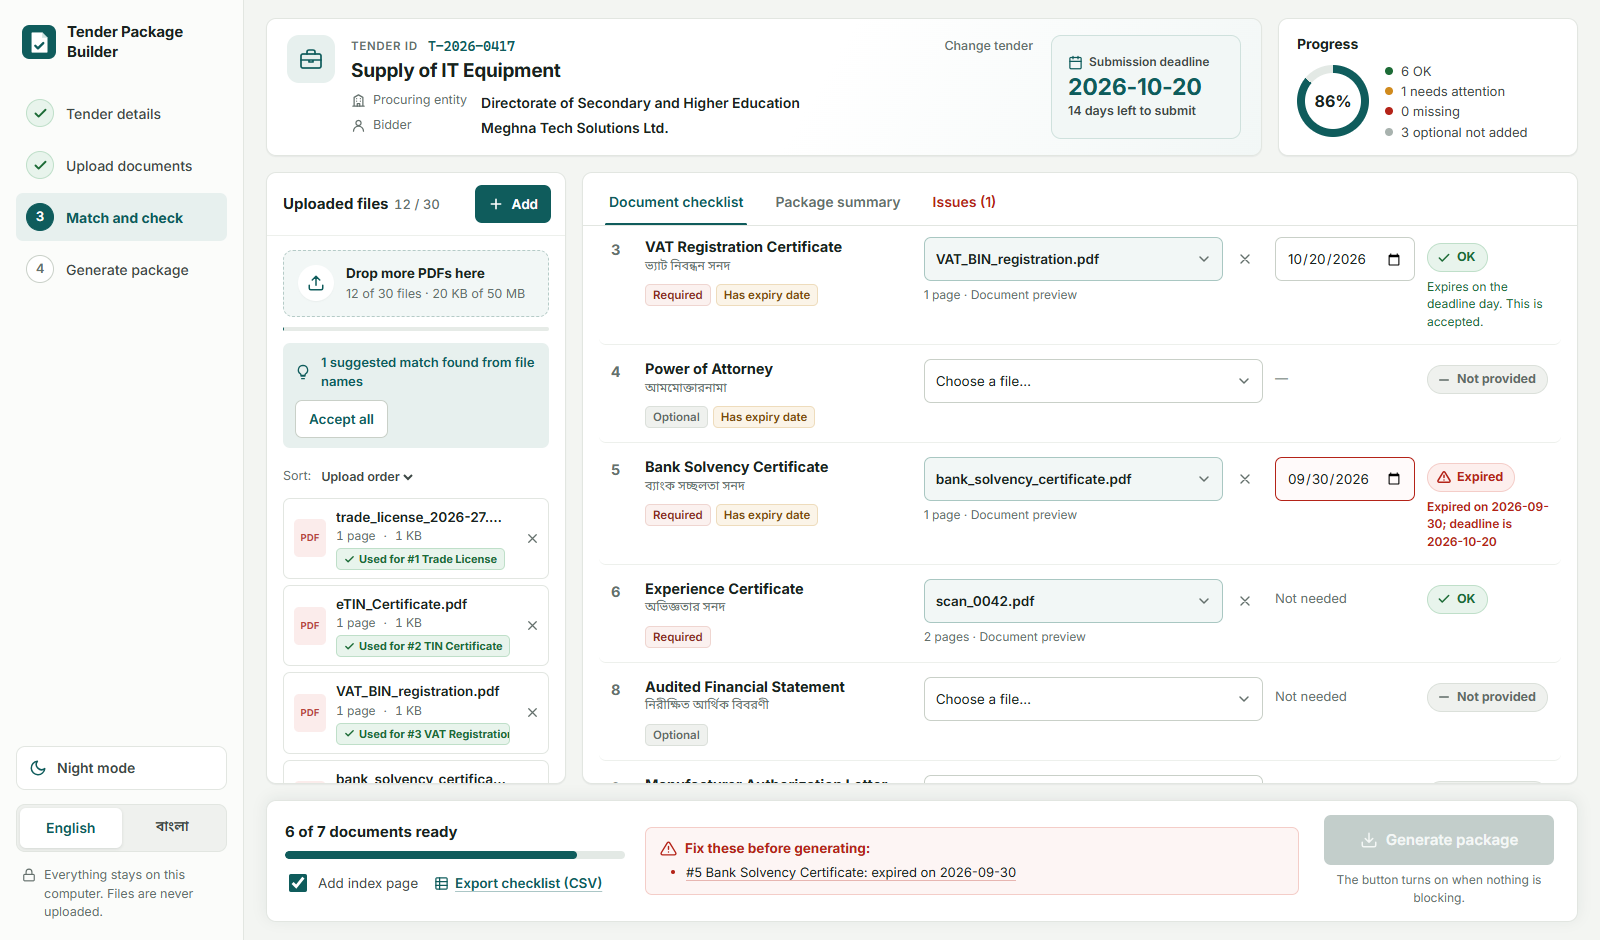
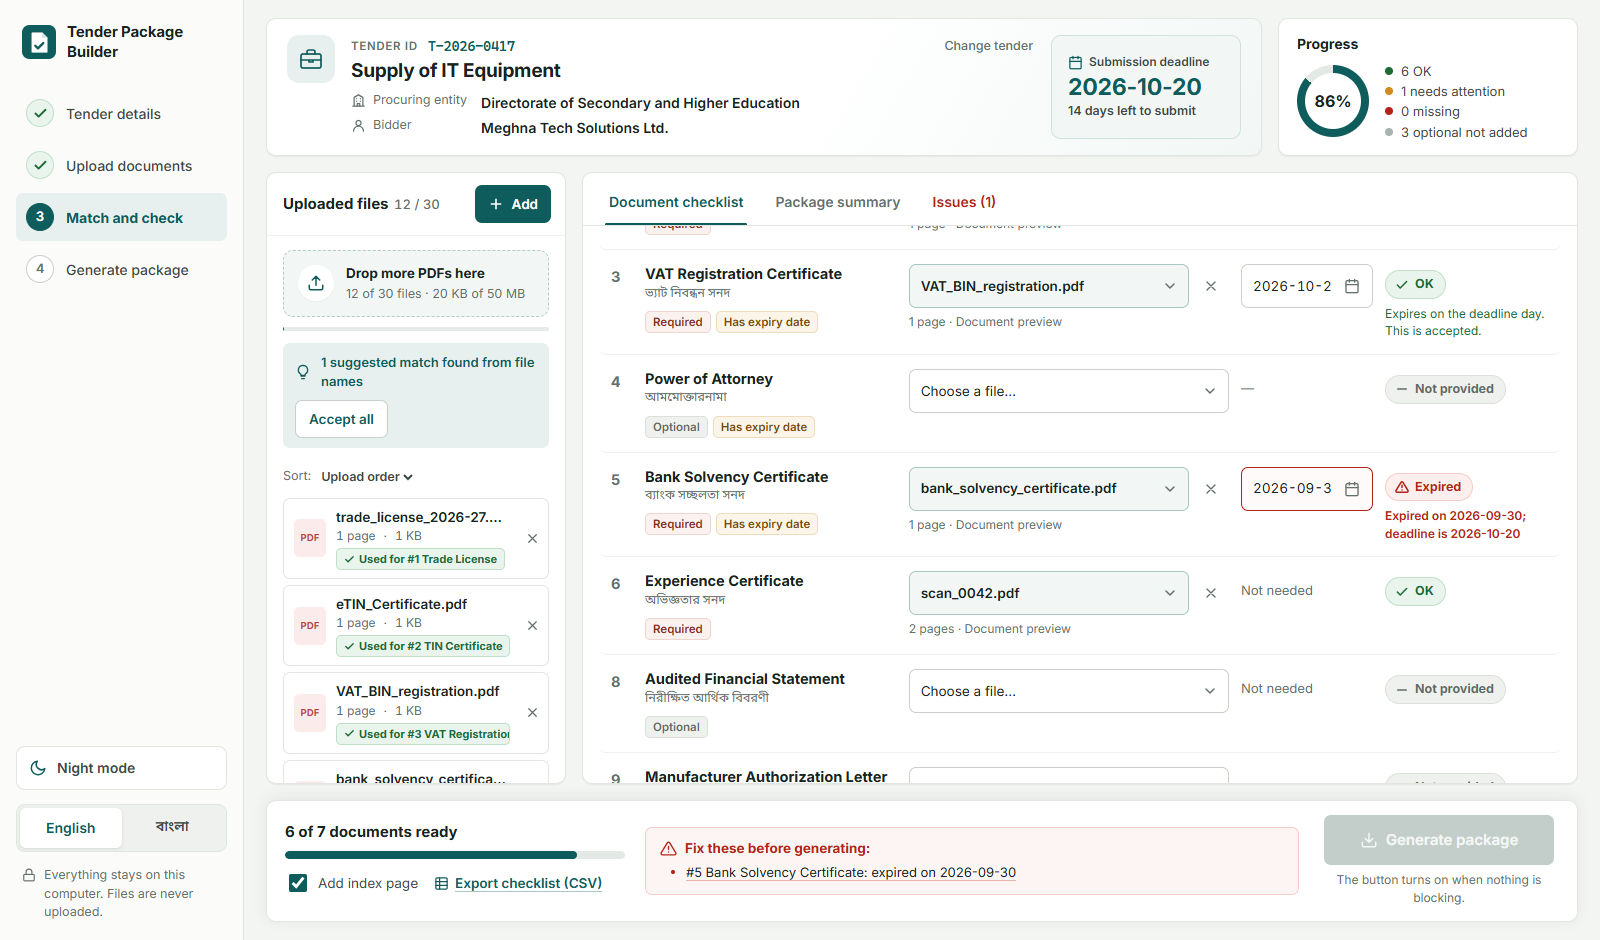
Fix expiry date field showing locale mm/dd/yyyy (now YYYY-MM-DD text field with auto dashes, validation and calendar button) and status chip overflowing its column | Prompt: "do you see the issue here? Fix this and deploy asap"

diff --git a/src/components/DateField.tsx b/src/components/DateField.tsx
@@ -1,0 +1,102 @@
+import { useEffect, useRef, useState } from 'react';
+import { isIsoDate } from '../lib/dates';
+import { useI18n } from '../i18nContext';
+import { IconCalendar } from './Icons';
+
+interface Props {
+  id: string;
+  value: string;
+  className: string;
+  describedBy?: string;
+  invalid?: boolean;
+  onChange: (date: string) => void;
+}
+
+function autoDash(raw: string): string {
+  const d = raw.replace(/\D/g, '').slice(0, 8);
+  if (d.length <= 4) return d;
+  if (d.length <= 6) return `${d.slice(0, 4)}-${d.slice(4)}`;
+  return `${d.slice(0, 4)}-${d.slice(4, 6)}-${d.slice(6)}`;
+}
+
+export function DateField({ id, value, className, describedBy, invalid, onChange }: Props) {
+  const { t } = useI18n();
+  const [draft, setDraft] = useState(value);
+  const [left, setLeft] = useState(false);
+  const picker = useRef<HTMLInputElement>(null);
+  const sent = useRef(value);
+
+  useEffect(() => {
+    if (value !== sent.current) {
+      sent.current = value;
+      setDraft(value);
+    }
+  }, [value]);
+
+  const len = draft.length;
+  const valid = isIsoDate(draft);
+  const bad = len > 0 && !valid && (len === 10 || left);
+  const errorId = `${id}-format`;
+
+  const update = (next: string) => {
+    setDraft(next);
+    setLeft(false);
+    const commit = isIsoDate(next) ? next : '';
+    if (commit !== sent.current) {
+      sent.current = commit;
+      onChange(commit);
+    }
+  };
+
+  return (
+    <>
+      <div className="date-field">
+        <input
+          id={id}
+          type="text"
+          inputMode="numeric"
+          autoComplete="off"
+          placeholder={t.datePlaceholder}
+          maxLength={10}
+          className={`${className} date-field__input ${bad ? 'input--error' : ''}`}
+          value={draft}
+          onChange={(e) => update(autoDash(e.target.value))}
+          onBlur={() => setLeft(true)}
+          aria-describedby={[bad ? errorId : '', describedBy ?? ''].filter(Boolean).join(' ') || undefined}
+          aria-invalid={invalid || bad}
+        />
+        <button
+          type="button"
+          className="date-field__btn"
+          aria-label={t.openCalendar}
+          title={t.openCalendar}
+          onClick={() => {
+            const el = picker.current;
+            if (!el) return;
+            try {
+              el.showPicker();
+            } catch {
+              el.focus();
+            }
+          }}
+        >
+          <IconCalendar size={16} />
+        </button>
+        <input
+          ref={picker}
+          type="date"
+          className="date-field__native"
+          tabIndex={-1}
+          aria-hidden="true"
+          value={valid ? draft : ''}
+          onChange={(e) => update(e.target.value)}
+        />
+      </div>
+      {bad && (
+        <p id={errorId} className="status-reason status-reason--error">
+          {t.dateFormatError}
+        </p>
+      )}
+    </>
+  );
+}

diff --git a/src/styles.css b/src/styles.css
@@ -987,7 +987,7 @@ select {
 .req-head,
 .req {
   display: grid;
-  grid-template-columns: 22px minmax(130px, 1.1fr) minmax(180px, 1.4fr) 140px 122px;
+  grid-template-columns: 22px minmax(120px, 1.1fr) minmax(180px, 1.4fr) 132px 164px;
   grid-template-areas: 'num doc file expiry status';
   column-gap: 12px;
 }
@@ -1179,6 +1179,47 @@ select {
   outline: none;
   border-color: var(--accent);
   box-shadow: 0 0 0 3px var(--accent-ring);
+}
+.date-field {
+  position: relative;
+}
+.date-field__input {
+  padding-right: 40px;
+  font-variant-numeric: tabular-nums;
+}
+.date-field__input::placeholder {
+  color: var(--muted);
+  opacity: 0.8;
+}
+.date-field__btn {
+  position: absolute;
+  top: 50%;
+  right: 4px;
+  transform: translateY(-50%);
+  display: grid;
+  place-items: center;
+  width: 34px;
+  height: 34px;
+  border: 0;
+  border-radius: 6px;
+  background: transparent;
+  color: var(--muted);
+  cursor: pointer;
+}
+.date-field__btn:hover {
+  background: var(--grey-bg);
+  color: var(--accent);
+}
+.date-field__native {
+  position: absolute;
+  left: 0;
+  bottom: 0;
+  width: 100%;
+  height: 1px;
+  padding: 0;
+  border: 0;
+  opacity: 0;
+  pointer-events: none;
 }
 .input--attention {
   border-color: #d39a45;
@@ -2011,7 +2052,7 @@ select {
   }
   .req-head,
   .req {
-    grid-template-columns: 20px minmax(120px, 1fr) minmax(190px, 1.5fr) 140px 116px;
+    grid-template-columns: 20px minmax(120px, 1fr) minmax(190px, 1.5fr) 136px 164px;
     column-gap: 10px;
   }
 }
@@ -2021,7 +2062,7 @@ select {
   }
   .req-head,
   .req {
-    grid-template-columns: 26px minmax(150px, 1.2fr) minmax(210px, 1.4fr) 150px 140px;
+    grid-template-columns: 26px minmax(150px, 1.2fr) minmax(210px, 1.4fr) 150px 170px;
     column-gap: 14px;
   }
 }

diff --git a/src/components/RequirementRow.tsx b/src/components/RequirementRow.tsx
@@ -3,6 +3,7 @@ import type { Requirement, RequirementStatus, UploadedFile } from '../lib/types'
 import { digits } from '../i18n';
 import { useI18n } from '../i18nContext';
 import { StatusChip } from './StatusChip';
+import { DateField } from './DateField';
 import { IconCheck, IconSparkle, IconX } from './Icons';
 
 export interface FileOption {
@@ -105,14 +106,13 @@ export function RequirementRow({ req, status, deadline, file, expiry, options, s
         </label>
         {req.has_expiry && file ? (
           <>
-            <input
+            <DateField
               id={`${id}-date`}
-              type="date"
               className={`input ${status.code === 'expiry_needed' ? 'input--attention' : ''} ${status.code === 'expired' ? 'input--error' : ''}`}
               value={expiry ?? ''}
-              onChange={(e) => onExpiry(e.target.value)}
-              aria-describedby={status.code === 'expired' ? reasonId : `${id}-hint`}
-              aria-invalid={status.code === 'expired'}
+              onChange={onExpiry}
+              describedBy={status.code === 'expired' ? reasonId : `${id}-hint`}
+              invalid={status.code === 'expired'}
             />
             <p id={`${id}-hint`} className={expiry ? 'visually-hidden' : 'cell-note'}>
               {t.expiryHint}

diff --git a/src/i18n.ts b/src/i18n.ts
@@ -106,6 +106,9 @@ const en = {
   removeMatch: 'Remove match',
   expiryLabel: 'Expiry date',
   expiryHint: 'As printed on the document',
+  datePlaceholder: 'YYYY-MM-DD',
+  openCalendar: 'Open calendar',
+  dateFormatError: 'Enter a real date as YYYY-MM-DD, for example 2027-06-30.',
   usedElsewhere: (n: number) => `already used for #${n}`,
   duplicateUsed: (name: string, n: number) => `same content as ${name}, used for #${n}`,
   unusable: 'cannot be used',
@@ -297,6 +300,9 @@ const bn: Dict = {
   removeMatch: 'মিল সরান',
   expiryLabel: 'মেয়াদ শেষের তারিখ',
   expiryHint: 'কাগজে যেমন লেখা আছে',
+  datePlaceholder: 'YYYY-MM-DD',
+  openCalendar: 'ক্যালেন্ডার খুলুন',
+  dateFormatError: 'YYYY-MM-DD আকারে সঠিক তারিখ দিন, যেমন 2027-06-30।',
   usedElsewhere: (n) => `#${digits(n, 'bn')}-এ ব্যবহৃত`,
   duplicateUsed: (name, n) => `${name}-এর সাথে হুবহু এক, #${digits(n, 'bn')}-এ ব্যবহৃত`,
   unusable: 'ব্যবহার করা যাবে না',
